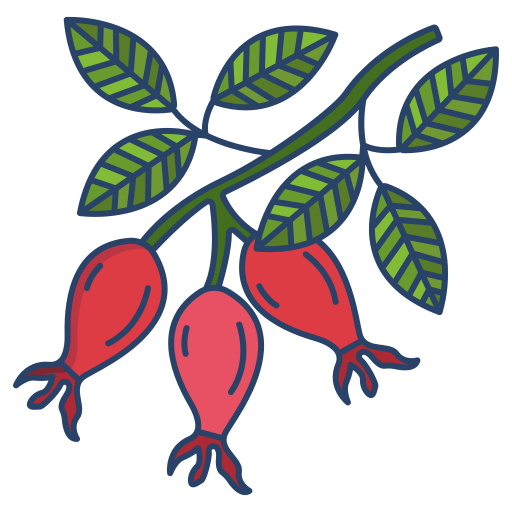
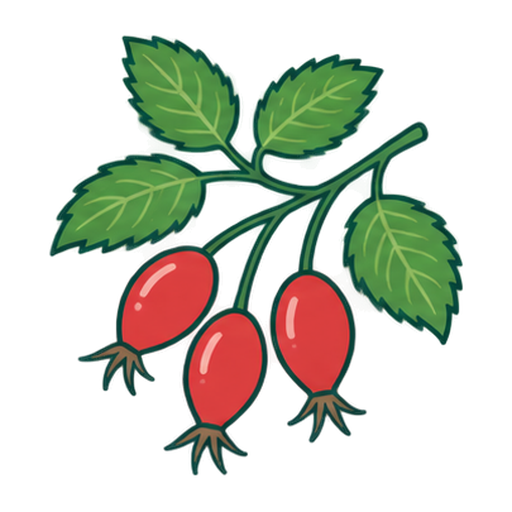
Assets: the pictures of item-list.htm are drawn for the kit (Codex) in place of the ones of Flaticon
The user: pictures like the ones of 02-comp-examples/item-list.htm, drawn with Codex, in their place; the old ones
archived. 27 pictures, the same names, 512 x 512 on a transparent ground: assets/fruids/ (12: broccoli, strawberry,
tomato, apple, carrot, watermelon, lemon, banana, pomegranate, eggplant, blueberries, green pepper),
assets/categories/ (8: cappuccino, chocolate milk, coffee, frappe, iced coffee, milkshake, orange juice, tea;
coffee-cup.png is still the old one, item-list does not show it) and assets/cards/ (7: dill, fennel, juniper,
olives, oregano, pepper, rosehip). Two Codex calls (the daily limit): a sheet of 20 flat icons and a sheet of 7
botanical pictures, cut into pictures by their groups of parts (a cup and its steam are one), made square with a
margin. The old pictures are in __archive/item-list-images-old-2026-11-09/ (not in git). assets/_attribute.txt
says these pictures are not from Flaticon (the other images there still are); the classic mobile template keeps its
own copies.

Checked: each picture on a light and on a dark ground (no piece of a neighbor, the steam with its cup); item-list.htm
with them (the light list, the gallery, the horizontal list).

diff --git a/context/repo-map.md b/context/repo-map.md
@@ -22,7 +22,7 @@ Add new details here, not in CLAUDE.md.
 | `__developer-toolkit/` | VS Code extensions (`.vsix`) for basic.js: a completer, an object navigator and a view inspector,. The basic designer extension is NOT here: its packages stay in `_basic-designer/vscode-extension/` (the user, 2026-10-30; public with that folder since 2026-11-02; install it into the VS Code profile the repo is opened with too: `--profile Hakan`). |
 | `experimental/` | Prototypes and scratch test pages. (`_make-components.sh`, which bundled every component into one file, was removed on 2026-10-30: `_make-standalone.sh` does it for one project.) |
 | `test/` | `_test-empty.htm` and `_test-template.htm` (starting points for a manual test page), plus two self-checking tests (open in a browser, the tab title must say ALL PASS): `basic-test.htm` (basic.js) and `components-test.htm` (every comp/m3/m4 file alone in its own iframe with its `deps`: loads, creates with default values, `that`/start-end balance, icons, `remove()` and leaks of a second instance (page objects, window/document listeners, intervals, rAF loops, ResizeObserver), (no `.min.js` twin check since 2026-10-30: the components have no twins); `?only=tabs` runs one). Add every new component to its `COMPONENTS` list (`setup` for objects it needs, like a `target`). `behavior-test.htm` (2026-10-29, ALL PASS too): every check is the repro of a fixed bug (double clicks that ran an action twice, confirm results, held Enter, SearchResults keys, SmartTable HTML...), so it can not come back; a newly fixed bug gets a `test()` there, and the check must fail on the old code. Serve the tests with a server that does not drop connections: `python3 -m http.server` sometimes did, and a missing script looked like a failed test. No test runner: nothing runs them automatically. `compare-pages.js` (2026-11-06, the user): a Node tool, not a test page: it opens a page as it is now and as it was in a git commit (the old `basic/` and `comp/` too) and compares the DOM, a picture, the text after every press and typed field and the console, at 1280 and 390 px. `node test/compare-pages.js` takes the samples changed since the last commit and the samples that load a changed component; also `tabs.htm dialog.htm`, `--all`, `--base HEAD~3`, `--width 1280` (2026-11-08, the user: one width only, any width; a quick check on the way, both widths before the commit; `smart-table.htm` 22 s in place of 47 s, a small page gains little: the start of Chrome is most of its time). Before the picture an endless animation (a turning ring, pulsing dots; CSS, or the SMIL of an SVG) is stopped at its start, in both pages (2026-11-08, the user: the two turning rings of the waiting SmartButtons in `minimal-theme.htm` were at another moment in every picture: a false DIFF once, LIVE the other times; after it they never differed in three runs). Its presses race too: the ask bubble of its Delete buttons goes after `style.ask.time` (is it still there at a later press?). That gave a false DIFF while only the 2 extra runs of the new page were compared; since then (2026-11-08, the user) a part is LIVE when any two runs of one page differ in it (the 3 old and 3 new runs of the tries and the 2 extra ones, each against the first of its page; no page is opened more): the race is LIVE, the FilePicker icon of 25cce04 (`--base 25cce04~1`) is still DIFF. A faint noise in its fields (36 px, at most 3 of 255) comes with or without the stopped rings; since then (2026-11-08, the user) a change of 3 of 255 or less is not counted in a picture (the pictures are read only when their bytes differ): that page is LIVE in its presses only, and the new Toggle draft (`--base 95150b4~1 _designs/toggle.htm`) is still a DIFF of the picture. The result is SAME, LIVE (it differs from itself too: a live chart, a running animation; the tool can not tell) or DIFF (exit code 1; the pictures and texts are in the temp folder it prints). It presses and types only: no hover, drag or keyboard. One browser at a time: three side by side gave 22 false differences in 122 pages. Under a difference of a text it prints the changes of all its lines, word by word, the most common first (2026-11-08, the user): its first line alone did not tell that the 168 different lines of a SmartTable page were one change (the hand cursor that moved from the cells to the row), and the files were compared by hand. HTML written as text (2026-11-09, the user): every run looks for a tag or an entity in a text that is seen (after the load, after every press and typed field; not in pre, code or a textarea); only in the new page it is a difference (`html as text`, DIFF), in the old page too it is printed under the result (MarkdownView shows one on purpose). A page that throws in the commit (`it can not be opened in the commit`) or is not in it is still opened now and looked at. WHY: the plain texts of c6c3011 left `Revenue <span style=...>` in the summary boxes of the ozden-panel Reports page, and the compare did not see it: that page threw in the old commit (a TinySelect bug), so nothing was compared. More than one `--run` (2026-11-09, the user): each is a state of its own, compared one after the other in one browser and printed with its code (`index.htm --run openPageByKey('Home')`), its files with the number of the run (`index-run2-1280-old.png`); `--init` is for all of them. WHY: the 14 pages of the panel were 14 commands with 14 totals; in one command they took 997 s at 1280, about the same (a page of the panel is about a minute of presses, the start of Chrome a few seconds). `--stop-clock` (2026-11-09, the user): `Date.now()` and `new Date()` give one moment (6 Nov 2026 12:00) all the time, in both pages; without it the time starts there and goes on. WHY: the clock of the panel was a second apart in two runs (11:57:09 -> 11:57:10) and made a page LIVE. With it at 1280: the 14 pages of the panel 13 same and 1 live (10 and 4 without it) in 495 s (997: a LIVE page is opened more), elevator-fleet SAME (LIVE without it), the samples as without it (no page stopped); cold-rooms and graph-box stay LIVE (their data comes every second). A page that waits for the time to pass may not go on with it (both pages alike): an option, not the default. Later the same day (the user, suggestion 1): the clock stands still by default and `--moving-clock` lets it go on (`--stop-clock` is gone); an option it does not know is an error (it was taken for the name of a page). Checked: `--run "document.title = ... Date.now() ..."` gives 0 ms in both pages (SAME), with `--moving-clock` 940 and 947 ms (LIVE); elevator-fleet is LIVE in some runs either way (its simulation goes on its timers: "Open" -> "Opening"). A folder for each run (2026-11-09, the user): `compare-pages/<day-time-process>` in the temp folder of the system; a run deletes only the folders older than 48 hours, and its own folder when every page was the same. While it runs, its folder holds `running.json` ({ pid, since }); before every page and at the end it looks for the others (a pid that lives) and tells them (`told-by-<pid>.json` in their folder), and a run that met another one says so at its start and under its totals. WHY: every run deleted the one folder at its start, so two sessions deleted the files of each other (the files of a template run were gone), and two browsers side by side give false differences. Checked: cold-rooms and markdown-view side by side, the second started 4 s later: both said so (the first, with one page, from the file the second left), each kept its files in its own folder, the marks went at the end. A run of the old version deletes the whole folder at its start (with the folders of the new runs; once it said ENOTEMPTY). The same day (the user, suggestion 1) the four tools with Chrome say it of each other: `chrome.startRun(tool)` of `_chrome.js` writes `<pid>.json` ({ pid, tool, since }) into `basicjs-tool-runs` of the temp folder of the system, `noteOthers()` (at the start, before every page of compare-pages and run-tests, in `end()`) finds the runs whose pid lives and leaves `<their pid>.told-by-<pid>.json`, `end()` deletes the files of its run, and the files of a run that was stopped (a pid that is gone) are deleted by the next look. compare-pages and run-tests and focus-rings print the NOTE at the start and at the end, screenshot at the end. The `running.json` / `told-by-` files in the folders of compare-pages are gone (its folder of a run stays). Checked: a compare of cold-rooms, and beside it screenshot, run-tests (`--only tiny-select`) and focus-rings one after the other: each of the three named the compare (pid, since), the compare named all three at its end, and the folder was empty after. It needs Chrome and puppeteer-core (on this computer: `__video/node_modules`). `focus-rings.js` (2026-11-07, the user): a Node tool, as compare-pages: every object of a page that takes the focus is clicked with the mouse (one of a kind, 14 at most, the page opened again every 5 clicks, 3 tabs) and the look of the focused object (outline, box-shadow, edge; the objects in it and the two around it) is read before and after blur(): a difference is a mark the click showed (RING, exit code 1; a transparent ring drawn at every focus: HIDDEN). Text fields are skipped (input, textarea, the roles textbox, searchbox, combobox, spinbutton). It checks itself first on a page of its own (a ring at every focus must be found, the ring of basic.js not; else exit code 2); it was proved on the old TreeView (RING) and the old PageControl (HIDDEN). `node test/focus-rings.js` takes every sample; `node test/focus-rings.js tabs.htm` one page. Its first run on every sample found one ring: a click on a disabled SliderField took the focus and drew its edge of the keyboard (its pointerdown returned before the preventDefault that stops the focus of the browser): fixed, with a test. `run-tests.js` (2026-11-07, the user): a Node tool, as compare-pages: the test pages from the terminal, one after the other (`node test/run-tests.js` = components and behavior, the tests of a changed component; `basic`, `samples`, `components`, `behavior` by name; `--only tabs` = `?only=`); it waits for the title (ALL PASS / FAILED, 10 min at most), prints it and the lines with ✗ / FAIL / WARN, exit code 1 when a page failed. Before it, the tests were run by hand in a browser or with a puppeteer snippet written again in every session. `behavior-test.htm?only=` (2026-11-08): only the tests whose name has the text, in any case and with a `-` not counted, so `node test/run-tests.js --only scroll-area` gives components-test its file and behavior the `ScrollArea: ...` tests: 7 of 416 tests in 8 s with the start of Chrome, in place of 57 s for the whole page. The summary says it (`behavior test, only "scroll-area" (7 of 416 tests): 8/8 passed - ALL PASS`); a text that is in no test name FAILS (`?only=ScrolArea: a test has this text in its name`), as a typo would run nothing and say ALL PASS. Without `?only=` the page is as before. WHY: every component job ran the whole page to check its few tests. `components-test.htm` and `basic-samples-test.htm` compare their file paths the same way (the same day, the user), and a text that is in none of them FAILS there too (a row `FAIL ?only=... 0/1`): before, `--only ScrollArea` tested no component and said `0/0 passed - ALL PASS`. `screenshot.js` (2026-11-07, the user): a Node tool, as compare-pages: one picture of a page for a check or a report, in one command (`--run` code in the page first, `--clip` a basic.js expression or a CSS selector, `--before [commit]` the page of a commit left and the page now right with labels, drawn by the browser itself; `--width`, `--scale`, `--name`); it saves `_screenshots/YYYY-MM-DD-name.png`, deletes the pictures there older than 48 hours, prints the errors of the page (exit code 1 when the page throws or the clip finds nothing). Its server lists a folder as Live Server does, so the Open Folder of basic designer works in it. Made because every check wrote and fixed its own puppeteer script. `_chrome.js` (2026-11-07, the user): the parts the three Node tools share (the server of the repository and of an old commit under `/__old__`, pages made by a tool, a folder list as in Live Server, git, puppeteer-core and Chrome, the list of the samples); a new Node tool of `test/` takes them from it. `screenshot.js --clip` (the same day, the user's choice): more than one `--clip` gives the part that holds them all, an expression may give a list of objects, and a CSS selector takes its first element that is seen (a closed SidePanel was the first `[role=dialog]`, so the clip of an open Dialog found nothing). `screenshot.js --clip-text "title"` (2026-11-09, the user, suggestion 3): the card or the group of a title (the parent of the deepest element whose text starts with it); a clipped part out of the window is scrolled into it (scroll-margin keeps its margin), a taller one makes the window taller (two cards lower in a ScrollArea were cut at the bottom of the picture: `--height 1700` and a long querySelectorAll were needed). **The tests of `behavior-test.htm` are in `test/behavior/<group>.js` since 2026-11-08** (the user: "5"): the groups of the catalog (`actions`, `inputs`, `selection`, `navigation`, `feedback`, `data`, `pages`, `general`: the reviews of comp/, the scale, the dark packages, TapEffect). The page keeps the component scripts, the helpers (`test`, `check`, `wait`...) and the runner, so `run-tests.js` and `--commit` work as before; WHY: one page of 8579 lines was changed by every session, and each commit of it needed a version of HEAD + its own lines. |
-| `assets/` | Shared images for the samples (`icons/`, `cards/`, `categories/`, `fruids/`, bar images…). |
+| `assets/` | Shared images for the samples (`icons/`, `cards/`, `categories/`, `fruids/`, bar images…). 2026-11-09 (the user): the pictures of `item-list.htm` are drawn for the kit by Codex, in place of the ones of Flaticon (the old ones in `__archive/item-list-images-old-2026-11-09/`): `fruids/` (12), `categories/` (8; `coffee-cup.png` is still the old one: item-list does not show it) and `cards/` (7), the same names, 512 x 512, transparent; two Codex calls (a sheet of 20 icons, a sheet of 7 botanical pictures) cut into pictures by their groups of parts. `_attribute.txt` says so; the other images there are still from Flaticon. The classic mobile template keeps its own copies. |
 | `custom-comp/` | A place to copy components into and edit them freely (only a note file in it now). |
 | `__video/` | Self-playing component demos to screen record as YouTube Shorts (`tabs-short.htm`, `ui-effects-short.htm`, see `readme.md`). `record.js` needs `npm install puppeteer-core ffmpeg-static` (with its own `package.json` in the folder, or npm installs into a parent folder). The whole folder is gitignored: never add, commit or push anything from it. |
 | `_designs/` | **Draft designs only** (the user, 2026-10-30; the instructions are in `_designs/readme.md`), to edit in basic-designer (`_basic-designer/index.htm?page=_designs/progress-bar.htm`). A draft has **no component behind it**: every look (style package) and every state of a component (normal, hover, pressed, focus, disabled, waiting, error, empty, full...) is drawn side by side with plain basic.js objects (Box, Label, groups), each with a Label that says what it is; hover / press are still frames. The values are plain objects at the top of the page (copies of the packages). The user edits the draft (a color, an edge, a size), then asks for the changes to be carried into the component (`XxxDefaults.style`, `Xxx.styles`). The folder is used only sometimes: a draft is NOT updated with every component change (the user, 2026-10-30); its copied values are refreshed when the user is about to use it or asks. Named after the component file (`_designs/progress-bar.htm`: ProgressBar, its classic / modern / ozden packages, 14 states; `_designs/smart-button.htm`: SmartButton, ozden ... ozden4 and classic, 11 states: the four contents, hover, pressed, focus, disabled, waiting, asking with its bubble, an asking text button). Pages that run the real component stay in `_basic-designer/designs/` and the samples. 2026-11-07 (the user): `minimal-theme.htm` is the design of the theme pair `minimal` / `minimalDark` (the themes of the kit: light / dark, minimal / minimalDark, ozden / ozdenDark; CLAUDE.md); carried step by step: step 1 (the same day) SmartButton (`minimal`, `minimalDark`: 28 px, the param package gives the height; `hover.borderColor`, a new key, "" by default; the tones `ink` / `inkDark`; the clocks `SmartButton.clocks.minimal` / `minimalDark`), CheckBox, RadioButton, Toggle; sample `02-comp-examples/minimal-theme.htm`; basicjs-python `App(style="minimal")`. Steps 2 and 3 (the same day): SearchInput, SelectBox (its list: ItemList minimal), ItemList (28 px rows, a line around the hovered and the selected row, a tick), Slider (a 2 px track, a 12 px knob with an ink line), ProgressBar (a 2 px track), Tabs, Stepper (96 x 28; a faint fill under the mouse: its buttons have no line of their own), SmartButton `minimalDanger` / `minimalDangerDark` (a delete: the icon keeps the color of its file); InputB and its family got the size params `titleFontSize`, `inputFontSize`, `inputHeight`, `fieldPadding`, `descriptionFontSize` (defaults: the old fixed 16, 20, 40, 14, 14), `titlePosition: "above"` (the title over the field; `box.fieldTop`, read by TextareaB), `titleGap` and `hoverBackBorderColor`; the eye of PasswordInputB is smaller in a field lower than 40 px. Not yet: TreeView, SmartTable, MenuBar / ToolBar / StatusBar, ContextMenu, Tooltip, Dialog, Toast, RangeSlider. The same day (the user: small visual flaws), a check of every state at 3x and its fixes: SmartButton tones may color the edge (`edge` / `hoverEdge`: `ink`, `inkDark`; a line around a filled button looked like a frame), the minimal ask (a #C9503C button, a 12 px flat bubble), a ring that waits (`SmartButton.clocks.minimal`: `isRing`, `SmartButton.createRingSvg`, 16 px: a faint circle and a turning quarter arc; a thin clock with a faint hour hand was tried the same day, the user chose the ring); CheckBox / RadioButton `style.focus.ringColor` (the keyboard focus on the edge of the mark; "" in the old packages: they show none, as before); Toggle `focusRingColor`, its ring follows the round of the track; InputB `warningBallSize`, `warningBallBorder`, `warningBorderColor` (minimal: an 8 px dot, the edge in the danger color), and its children (Email, Phone, URL, Password, Textarea) apply the style package before their own defaults (a side effect, the intent of the packages: TextareaB in `dark` / `ozdenDark` shows the count of the package, and the warning of the children in `dark` is indianred); SearchInput `focusBorderWidth` (minimal 1); SelectBox `option.border` / `borderColor` / `space`, `optionActive.borderColor`, `optionSelected.borderColor` / `tickSize` (16 by default, scaled with the style); ItemList minimal: 2 px between the rows, the search box as the head of the list (a line under it), no dots on its scroll bar. Then (the user: the scroll bar of the Note was in the middle; a click on a tab showed the blue frame): TextareaB keeps its own `rightPadding` (the 26 px of a package pushed its scroll bar inward), under its title the scroll bar sits right inside the edge, the warning ball 2 px left of it, the text 2 px left of the ball (the user: the bar must not be under the ball) and `scrollBarStyle` (minimal: 3 px, no dots, light on a dark window); Tabs draws its focus ring only for `:focus-visible` (the old packages had a transparent ring, so a click that showed it was never seen). Step 4 (the same day): ContextMenu, MenuBar, ToolBar, StatusBar (packages of params: their height too), Tooltip (`styleName`, `Tooltip.looks.minimal` / `minimalDark`), Dialog (a card with a line, no shadow, the buttons with no band: `ink`, `minimalDanger`), Toast (`Toast.THEMES.minimal` / `minimalDark`; a theme may give its shapes: `style`, under the style of the page; `actionText` / `actionFill`), TreeView (a line around the tree, `row.space` 2), SmartTable (no stripes; a row can not have a line: a faint fill under the mouse, a 2 px ink bar at the left of the selected row; a 22 px filter box), RangeSlider. Optional edges for the lines of the theme, "" / 0 by default (the old looks stay): ContextMenu `item.border` / `itemHover.borderColor`, MenuBar `title.border` / `titleHover` / `titleOpen.borderColor`, ToolBar `button.border` / `buttonHover` / `buttonOn.borderColor`, TreeView `row.border` / `rowHover` / `rowSelected.borderColor`, `row.space`. All in `02-comp-examples/minimal-theme.htm`; basicjs-python `MINIMAL_STYLE_NAMES` has them, Dialog and Toast follow `App(style="minimal")`. TreeView draws the ring of the selected row (`rowFocus`) only for the keyboard: the focus came with Tab (`:focus-visible`) or a key was used, a click takes it away (the user: the blue frame after a click, as in Tabs; it showed in every package before: a gray ring in light, a blue one in dark). A sweep that clicks every minimal component with the mouse found no other ring left after a click. DataTable got `minimal` / `minimalDark` too (as SmartTable minimal: 30 px titles, rows of a 13 px text, no stripes, a line around it). A sweep of all 131 samples (every object that takes the focus clicked with the mouse; the look of the focused object compared before and after blur(), text fields skipped; 228 clicks, 206 focus checks; proved on the old TreeView) found no other ring left by a click; PageControl drew its ring (transparent by default) at every focus: now only for `:focus-visible`, as Tabs and TreeView. Contrast (the same day, the user's choice 1A): the line that shows a control (a field, a search box, the field of a select, a check box, a radio button, a toggle, a stepper) is `edge` Black(0.45) / White(0.42), 3:1 at least as WCAG asks of a control (1.6:1 before), darker under the mouse (`edgeHover` Black(0.65) / White(0.62)); the faint texts (placeholders, captions) Black(0.54) / White(0.48) (4.5:1); the danger color #C24A36 (4.85:1); the lines of lists, tables, bars and popups stay `line` Black(0.2) / White(0.18). Then the most used components of basicjs-python: SelectDate, SelectTime, SelectColor (packages of params: a 28 px field; the calendar, the columns and the palette on the ground of the window with a line and no shadow; ink for the chosen day, hour and minute), SelectFile (`zoneHeight` 120, a dashed `edge`, 42 px rows: two lines of text), Accordion (32 px rows, a soft line), SliderField (28 px, a faint fill, a 2 px handle; `aroundLabel` and `beforeValue`: the thin handle never crosses a text), StepBar (20 px ink circles; `circle.hoverRing`: the ring of a step under the mouse, 6 by default, 4 in minimal), TagInput (20 px tags with a soft line; `highlight.fontFamily`: the typed part of a suggestion in bold with no fill, a faint fill behind a few small letters read as a smudge), Splitter (a 2 px ink line under the mouse), SidePanel (a line and no shadow, as the minimal Dialog), LoadingScreen (the ring of the minimal SmartButton with a 2 px line, as its progress bar). SelectTime `column.barSpace`: room around the cells for the scroll bar (in every package the bar crosses the right side of the cells; 0 by default, 14 in minimal). GraphBox: `GraphBox.THEMES.minimal` / `minimalDark` with their shapes in `style` (`GraphBox.MINIMAL_SHAPES`: 13 px title, 11 px axis and legend, round 4, 1.5 px lines, a tooltip with no shadow), merged before the defaults and under the style of the page, as Toast; `setTheme()` changes only the colors; the colors of the data stay those of light / dark (checked for color blindness). A check of the states of step 4 at 3x found two faults: StatusBar minimal had no `tones` (minimalDark showed the light tone texts, about 3:1 on dark); InputB with `titlePosition: "above"` and an empty title kept the row of the title, so the field slid out of its "auto" box (the field of `Dialog.prompt` in minimal was a line through its text): an empty title has no row now (a title set later with `setTitleText()` is not shown). basicjs-python: these 11 in `MINIMAL_STYLE_NAMES`; GraphBox takes `theme="minimal"` / `"minimalDark"` in a minimal window (`_take_window_theme_param`). Then (the user): the minimal SelectDate / SelectTime fields have 14 px line icons (`icon.svg`, `icon.size`: an SVG text drawn in the color of the icon; "" keeps the drawn icon of the other packages; `SelectDate.MINIMAL_ICON`, `SelectTime.MINIMAL_ICON`); the text of the minimal SearchInput sits in the middle (`textOffsetY` 0: with -1 the band of the capitals was 1 px over the middle; the minimal JsonEditor gives it to its search too); Table | JSON of the minimal JsonEditor has 2 px of room inside its line (`SIZE.VIEW_SWITCH_INSET`, corners that follow the group: the ring of the chosen part lay on the line of the group). Then (the user's choices 1 and 3): the draft has cards for SelectDate, SelectTime, SelectColor, SelectFile, Accordion, SliderField, StepBar, TagInput, Splitter and SidePanel / LoadingScreen / GraphBox (new tokens `hover`, `fill`, `fillHover`, `fillActive`, `grid`, `chart`, `cover`); the minimal StepBar draws the ring of the keyboard around its circle (`focus.ringPlace` "circle", `ringWidth`, `ringSpace`; "step" by default: the ring of basic.js around the whole step, which crossed the line to the next step) and its line stands 5 px from the circle; the minimal Splitter shows the keyboard with its line (`lineFocus`: 2 px of the focus color, no ring; `size` 0 / `color` "" by default: the ring as before). basicjs-python: `examples/minimal_theme.py` (every minimal component, `python minimal_theme.py dark`), a Minimal part in its README, `checks/check_example.py` takes `STYLE` and `COMPONENTS` of an example; the class style of ProgressBar (the main color of the kit) is not given in a minimal window (it was over the ink of the package), `SmartButton(style_name="minimalDanger")` is minimalDangerDark in a dark window. |
